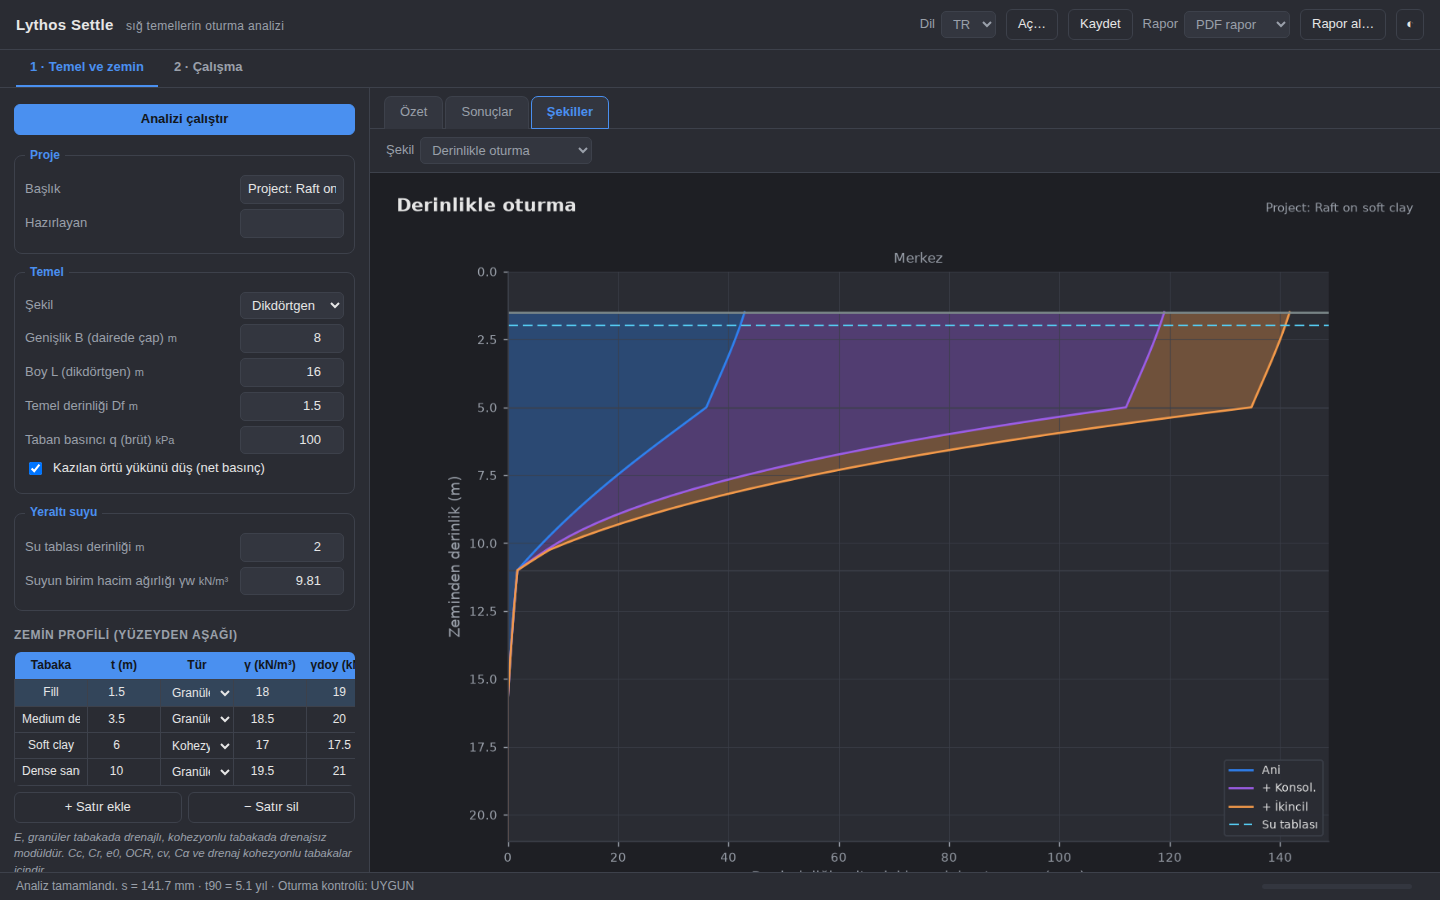
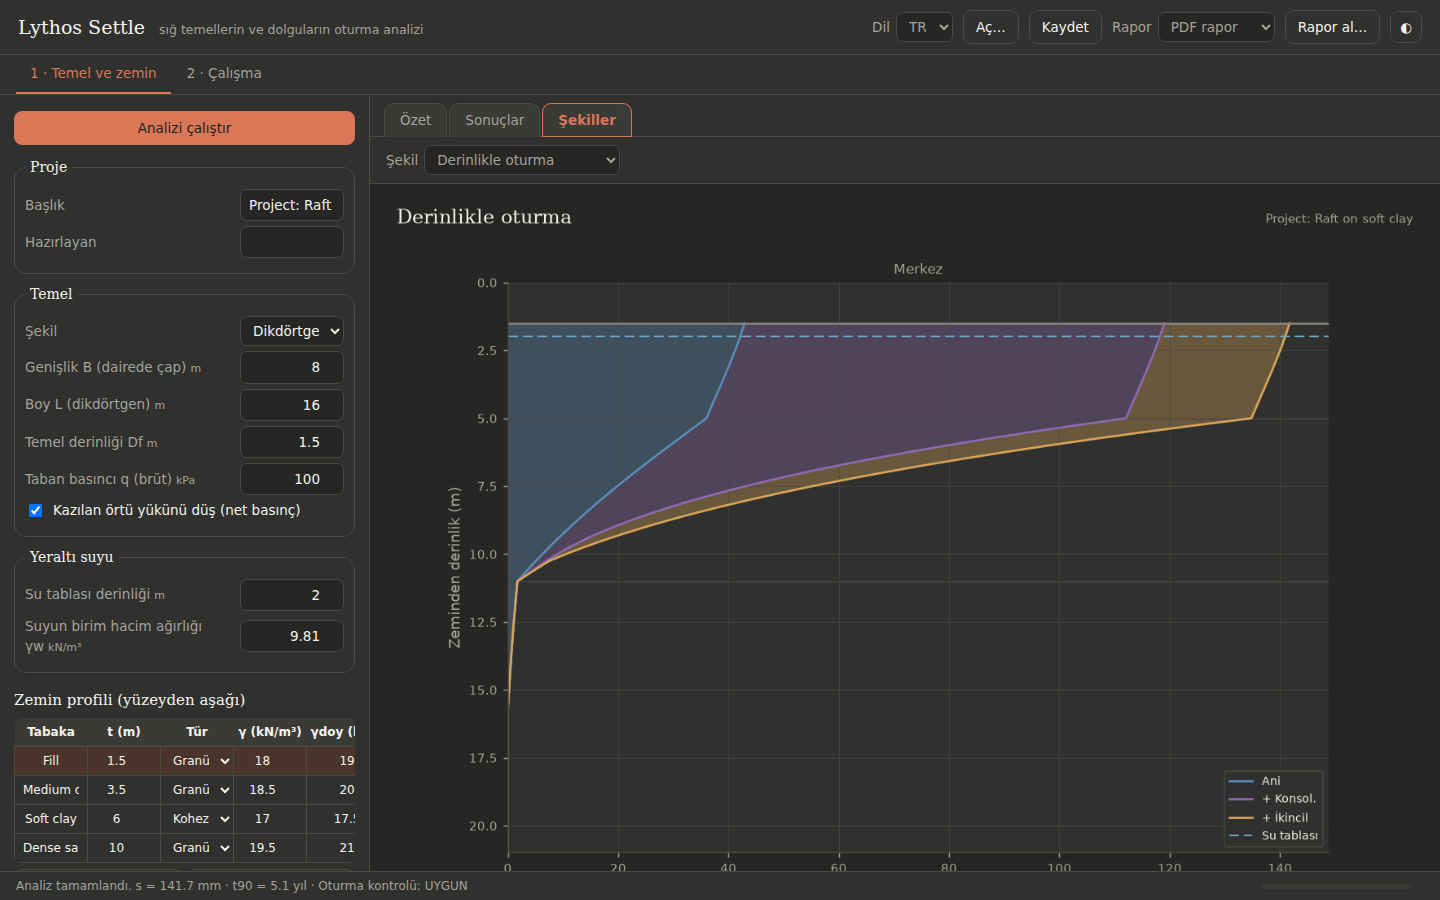
Warm restyle, embankment screenshots, and the figure theme at startup
- The interface takes a warm, paper-coloured look: cream background,
  terracotta accent, a serif for headings, card values and figure
  titles, a system sans for the controls, quiet table heads and
  rounder corners, in both themes. The figures' theme and semantic
  palette follow it, so a diagram still sits on the page.
- The tagline now names embankments as well.
- Fix: a fresh page with no stored theme never told the server, so its
  figures kept the theme of whichever page had spoken last (a light
  page could get dark figures). The page now always sends its theme.
- README (EN / TR): two embankment screenshots, and every screenshot
  retaken in the new look.

Claude-Session: https://claude.ai/code/session_01MpFrKtZ4HxJ2eSgrNiA5jj

diff --git a/lythossettle/web/static/style.css b/lythossettle/web/static/style.css
@@ -7,39 +7,47 @@
  */
 
 :root {
-  --bg: #F3F4F6;
-  --panel: #FFFFFF;
-  --panel-2: #EEF1F5;
+  /* warm paper, terracotta accent, a serif for what is read and a sans for the chrome */
+  --bg: #F5F4ED;
+  --panel: #FAF9F5;
+  --panel-2: #F0EEE6;
   --input: #FFFFFF;
-  --ink: #1F2933;
-  --muted: #6B7280;
-  --line: #D9DDE3;
-  --accent: #2F80ED;
-  --accent-soft: #E3ECF7;
+  --ink: #141413;
+  --muted: #73726C;
+  --line: #E3E0D5;
+  --accent: #C6613F;
+  --accent-soft: #F5E6DE;
   --accent-ink: #FFFFFF;
-  --ok: #27AE60;
-  --ok-soft: #E9F7EF;
-  --bad: #EB5757;
-  --bad-soft: #FDECEA;
-  --warn: #B9770E;
-  --warn-soft: #FEF5E7;
-  --shadow: 0 1px 3px rgba(16, 24, 40, 0.08), 0 1px 2px rgba(16, 24, 40, 0.04);
+  --ok: #3F7F4F;
+  --ok-soft: #E6F0E6;
+  --bad: #B0413E;
+  --bad-soft: #F7E3E0;
+  --warn: #A26A12;
+  --warn-soft: #F8EEDB;
+  --serif: "Tiempos Text", "Source Serif 4", "Source Serif Pro", "Iowan Old Style",
+           "Palatino Linotype", Palatino, Georgia, "DejaVu Serif", serif;
+  --sans: ui-sans-serif, system-ui, -apple-system, "Segoe UI", "Helvetica Neue", Arial,
+          "DejaVu Sans", sans-serif;
+  --shadow: 0 1px 2px rgba(20, 20, 19, 0.05);
 }
 
 :root[data-theme="dark"] {
-  --bg: #1E1F24;
-  --panel: #2A2C33;
-  --panel-2: #33363F;
-  --input: #33363F;
-  --ink: #E6E6E6;
-  --muted: #9AA0AA;
-  --line: #3D414B;
-  --accent: #4A90F0;
-  --accent-soft: #33455A;
-  --accent-ink: #12161C;
-  --ok-soft: #26402F;
-  --bad-soft: #4A2B28;
-  --warn-soft: #43371F;
+  --bg: #262624;
+  --panel: #30302E;
+  --panel-2: #3A3A37;
+  --input: #262624;
+  --ink: #F5F4ED;
+  --muted: #A6A39A;
+  --line: #4A4944;
+  --accent: #D97757;
+  --accent-soft: #4A342B;
+  --accent-ink: #1F1E1D;
+  --ok: #7FB38A;
+  --ok-soft: #2F3D31;
+  --bad: #E0736A;
+  --bad-soft: #4A2E2B;
+  --warn: #D9A55B;
+  --warn-soft: #463A26;
   --shadow: none;
 }
 
@@ -51,7 +59,7 @@
 
 body {
   margin: 0;
-  font: 13px/1.45 -apple-system, BlinkMacSystemFont, "Segoe UI", Roboto, sans-serif;
+  font: 13.5px/1.5 var(--sans);
   color: var(--ink);
   background: var(--bg);
   height: 100vh;
@@ -259,3 +267,37 @@ table.grid input:disabled, table.grid select:disabled { opacity: 0.3; cursor: no
 table.grid td.off { background: var(--panel-2); }
 .table-note { margin-top: 2px; }
 .view img + img { margin-top: 14px; }
+
+/* ------------------------------------------------------- claude-style look */
+header h1 { font-family: var(--serif); font-size: 19px; font-weight: 500; letter-spacing: 0; }
+header h1 span { font-family: var(--sans); font-size: 12.5px; }
+header { padding: 10px 18px; }
+
+button { border-radius: 8px; padding: 6px 12px; }
+button.primary { font-weight: 500; }
+select, input[type="text"], input[type="number"] { border-radius: 7px; padding: 5px 8px; }
+input:focus, select:focus { box-shadow: 0 0 0 3px var(--accent-soft); }
+
+fieldset { border-radius: 12px; background: var(--panel); }
+legend { font-family: var(--serif); font-size: 14px; font-weight: 500; color: var(--ink); }
+h2 { font-family: var(--serif); text-transform: none; letter-spacing: 0; font-size: 15px;
+     font-weight: 500; color: var(--ink); }
+
+nav.modules button { font-weight: 500; }
+.tabs button { border-radius: 9px 9px 0 0; font-weight: 500; }
+.tabs button.active { font-weight: 600; }
+
+/* quiet table heads: the accent is for actions, not for furniture */
+table.grid th { background: var(--panel-2); color: var(--ink); font-weight: 600;
+                border-bottom: 1px solid var(--line); }
+table.grid tr.selected td { background: var(--accent-soft); }
+
+.cards .card { border-radius: 12px; border: 1px solid var(--line); border-left-width: 4px;
+               box-shadow: var(--shadow); padding: 11px 14px; }
+.cards .card b { font-family: var(--serif); font-size: 22px; font-weight: 500; }
+.warnings { border-radius: 10px; }
+.warnings h3 { font-family: var(--serif); font-size: 13.5px; font-weight: 500; }
+.view pre { border-radius: 12px; }
+.view img { border-radius: 10px; }
+.view .placeholder { font-family: var(--serif); font-size: 16px; }
+table.data { border-radius: 10px; overflow: hidden; }

diff --git a/lythossettle/web/static/app.js b/lythossettle/web/static/app.js
@@ -672,7 +672,9 @@ async function start() {
   const meta = await api("/api/meta");
   S.values = JSON.parse(JSON.stringify(meta.defaults));
   applyMeta(meta);
-  if (theme === "dark") await applyTheme("dark");
+  // Always tell the server: it keeps the theme of whichever page spoke last,
+  // and the figures would otherwise follow that page rather than this one.
+  await applyTheme(theme === "dark" ? "dark" : "light");
   await refreshVariables();
 
   $("language").addEventListener("change", (e) => setLanguage(e.target.value));

diff --git a/lythossettle/config.py b/lythossettle/config.py
@@ -25,25 +25,26 @@ DRAINAGE = ["double", "single"]
 
 # --- Interface theme (web/static/style.css) and plot palette ---------------
 # --- kept together so the figures always match the page they are shown on. -
-ACCENT = "#2F80ED"
+ACCENT = "#C6613F"
 
 THEMES = {
-    "dark": dict(bg="#1E1F24", panel="#2A2C33", input_bg="#33363F", fg="#E6E6E6",
-                 fg_dim="#9AA0AA", border="#3D414B", hover="#3A3E48", btn="#353943",
-                 muted="#555A66", accent=ACCENT, accent_hover="#4A90F0"),
-    "light": dict(bg="#F3F4F6", panel="#FFFFFF", input_bg="#FFFFFF", fg="#1F2933",
-                  fg_dim="#6B7280", border="#D9DDE3", hover="#EEF1F5", btn="#F7F8FA",
-                  muted="#B8C0CC", accent=ACCENT, accent_hover="#1F6FDB"),
+    "dark": dict(bg="#262624", panel="#30302E", input_bg="#262624", fg="#F5F4ED",
+                 fg_dim="#A6A39A", border="#4A4944", hover="#3A3A37", btn="#3A3A37",
+                 muted="#6B6A64", accent="#D97757", accent_hover="#E08B6E"),
+    "light": dict(bg="#F5F4ED", panel="#FAF9F5", input_bg="#FFFFFF", fg="#141413",
+                  fg_dim="#73726C", border="#E3E0D5", hover="#F0EEE6", btn="#F0EEE6",
+                  muted="#B7B4AA", accent=ACCENT, accent_hover="#B0532F"),
 }
 
-# Semantic colours: the same quantity is the same colour in every figure.
+# Semantic colours: the same quantity is the same colour in every figure. Warm and
+# muted, to sit on the paper-coloured page; terracotta marks the total.
 PLOT_PALETTE = dict(
-    immediate="#2F80ED", consolidation="#9B5DE5", secondary="#F2994A",
-    total="#EB5757", stress="#0EA5A4", overburden="#6B7280", preconsolidation="#27AE60",
-    limit="#B9770E", water="#56CCF2", footing="#7F8C8D",
-    center="#2F80ED", char="#9B5DE5", edge="#F2994A", corner="#0EA5A4",
-    shoulder="#9B5DE5", midslope="#F2994A", toe="#0EA5A4", fill="#C9A876",
-    allowable="#EB5757",
+    immediate="#5B8DB8", consolidation="#8C6BB1", secondary="#D9A55B",
+    total="#C6613F", stress="#4E9A8A", overburden="#73726C", preconsolidation="#5E8C4A",
+    limit="#A26A12", water="#6FA8C7", footing="#8A8680",
+    center="#C6613F", char="#8C6BB1", edge="#D9A55B", corner="#4E9A8A",
+    shoulder="#8C6BB1", midslope="#D9A55B", toe="#4E9A8A", fill="#C9A876",
+    allowable="#B0413E",
 )
 
 # Fill colours of the two soil behaviours in the schematic (theme-dependent,

diff --git a/lythossettle/web/server.py b/lythossettle/web/server.py
@@ -30,14 +30,14 @@ STATIC = os.path.join(os.path.dirname(__file__), "static")
 #: A mark for the browser tab: a footing on layered ground, and its settlement
 _FAVICON = (
     b'<svg xmlns="http://www.w3.org/2000/svg" viewBox="0 0 32 32">'
-    b'<rect width="32" height="32" rx="6" fill="#1E1F24"/>'
-    b'<path d="M3 17h26v5H3z" fill="#C9A876"/>'
-    b'<path d="M3 22h26v7H3z" fill="#7E9A78"/>'
-    b'<path d="M9 12h14v5H9z" fill="#9AA0AA"/>'
-    b'<path d="M16 3v7" stroke="#EB5757" stroke-width="2.4" stroke-linecap="round"/>'
-    b'<path d="M12.5 7.5 16 11l3.5-3.5" fill="none" stroke="#EB5757" stroke-width="2.2" '
+    b'<rect width="32" height="32" rx="7" fill="#F5F4ED"/>'
+    b'<path d="M3 17h26v5H3z" fill="#E3C98F"/>'
+    b'<path d="M3 22h26v7H3z" fill="#A7B8A0"/>'
+    b'<path d="M9 12h14v5H9z" fill="#8A8680"/>'
+    b'<path d="M16 3v7" stroke="#C6613F" stroke-width="2.4" stroke-linecap="round"/>'
+    b'<path d="M12.5 7.5 16 11l3.5-3.5" fill="none" stroke="#C6613F" stroke-width="2.2" '
     b'stroke-linecap="round" stroke-linejoin="round"/>'
-    b'<path d="M6 19.5q10 5 20 0" fill="none" stroke="#2F80ED" stroke-width="1.6"/></svg>'
+    b'<path d="M6 19.5q10 5 20 0" fill="none" stroke="#141413" stroke-width="1.4"/></svg>'
 )
 
 #: File names of the report and export downloads

diff --git a/lythossettle/plotting.py b/lythossettle/plotting.py
@@ -26,7 +26,7 @@ from matplotlib.patches import Polygon, Rectangle
 from . import stress
 from .config import PLOT_PALETTE, SOIL_FILL
 from .i18n import TRANSLATIONS
-from .plot_style import label_box, style_axis, style_figure
+from .plot_style import TITLE_FONT, label_box, style_axis, style_figure
 
 #: The figures, in the order the interface offers them
 PLOT_KEYS = ["schematic", "stress", "influence", "settlement_depth", "time", "points", "profile"]
@@ -54,7 +54,7 @@ class Plotter:
     # ------------------------------------------------------------------ helpers
     def _title(self, fig, th, key):
         info = self.a.config.get("project_info", {}).get("title", "")
-        fig.suptitle(self.L[f"fig_{key}"], color=th["fg"], fontsize=12, fontweight="bold",
+        fig.suptitle(self.L[f"fig_{key}"], color=th["fg"], fontsize=13.5, fontfamily=TITLE_FONT,
                      x=0.02, ha="left")
         if info:
             fig.text(0.98, 0.965, info, color=th["fg_dim"], fontsize=8.5, ha="right",

diff --git a/lythossettle/study_plots.py b/lythossettle/study_plots.py
@@ -16,7 +16,7 @@ import numpy as np
 from matplotlib.figure import Figure
 
 from .config import PLOT_PALETTE
-from .plot_style import style_axis, style_figure
+from .plot_style import TITLE_FONT, style_axis, style_figure
 from .study import OUTPUTS, Study, _column
 
 #: The colour of each output in the study figures
@@ -60,7 +60,7 @@ def _empty(fig: Figure, text: str, th) -> None:
 
 
 def _title(fig, th, text):
-    fig.suptitle(text, color=th["fg"], fontsize=12, fontweight="bold", x=0.02, ha="left")
+    fig.suptitle(text, color=th["fg"], fontsize=13.5, fontfamily=TITLE_FONT, x=0.02, ha="left")
 
 
 def plot_oat(fig: Figure, study: Study, L: Dict[str, str], output: str = "s_total",

diff --git a/lythossettle/web/strings.py b/lythossettle/web/strings.py
@@ -14,7 +14,8 @@ from ..i18n import TRANSLATIONS
 #: Text the web shell needs and the rest of the program does not.
 #: key -> (English, Turkish)
 SHELL = {
-    "tagline": ("settlement analysis of shallow foundations", "sığ temellerin oturma analizi"),
+    "tagline": ("settlement of shallow foundations and embankments",
+                "sığ temellerin ve dolguların oturma analizi"),
     "language": ("Language", "Dil"),
     "open": ("Open…", "Aç…"),
     "save": ("Save", "Kaydet"),

diff --git a/lythossettle/plot_style.py b/lythossettle/plot_style.py
@@ -9,6 +9,9 @@ from typing import Dict
 
 from .config import THEMES
 
+#: Serif for figure titles, like the page's headings (Matplotlib ships it)
+TITLE_FONT = "DejaVu Serif"
+
 
 def resolve_theme(theme) -> Dict[str, str]:
     """Accepts a theme name ('light' / 'dark') or an already-resolved dict."""

diff --git a/README.tr.md b/README.tr.md
@@ -46,6 +46,10 @@ dışında hiçbir bağımlılık getirmez.
 |---|---|
 | ![Çalışma](https://raw.githubusercontent.com/hdaltuntas/lythos-settle/main/screenshots/settle_study.png) | ![Derinlikle oturma](https://raw.githubusercontent.com/hdaltuntas/lythos-settle/main/screenshots/settle_depth_dark_tr.png) |
 
+| Yumuşak kil üzerinde dolgu | Dolgu boyunca oturma |
+|---|---|
+| ![Dolgu](https://raw.githubusercontent.com/hdaltuntas/lythos-settle/main/screenshots/settle_embankment.png) | ![Dolgu boyunca oturma](https://raw.githubusercontent.com/hdaltuntas/lythos-settle/main/screenshots/settle_embankment_profile.png) |
+
 ## Kurulum ve çalıştırma
 
 Klondan, yalnız bilimsel paketler kurulu olarak:

diff --git a/README.md b/README.md
@@ -49,6 +49,10 @@ standard library.
 |---|---|
 | ![Study](https://raw.githubusercontent.com/hdaltuntas/lythos-settle/main/screenshots/settle_study.png) | ![Settlement with depth](https://raw.githubusercontent.com/hdaltuntas/lythos-settle/main/screenshots/settle_depth_dark_tr.png) |
 
+| Embankment on soft clay | Settlement across the embankment |
+|---|---|
+| ![Embankment](https://raw.githubusercontent.com/hdaltuntas/lythos-settle/main/screenshots/settle_embankment.png) | ![Settlement across the embankment](https://raw.githubusercontent.com/hdaltuntas/lythos-settle/main/screenshots/settle_embankment_profile.png) |
+
 ## Install & run
 
 From a clone, with nothing installed but the scientific stack:
